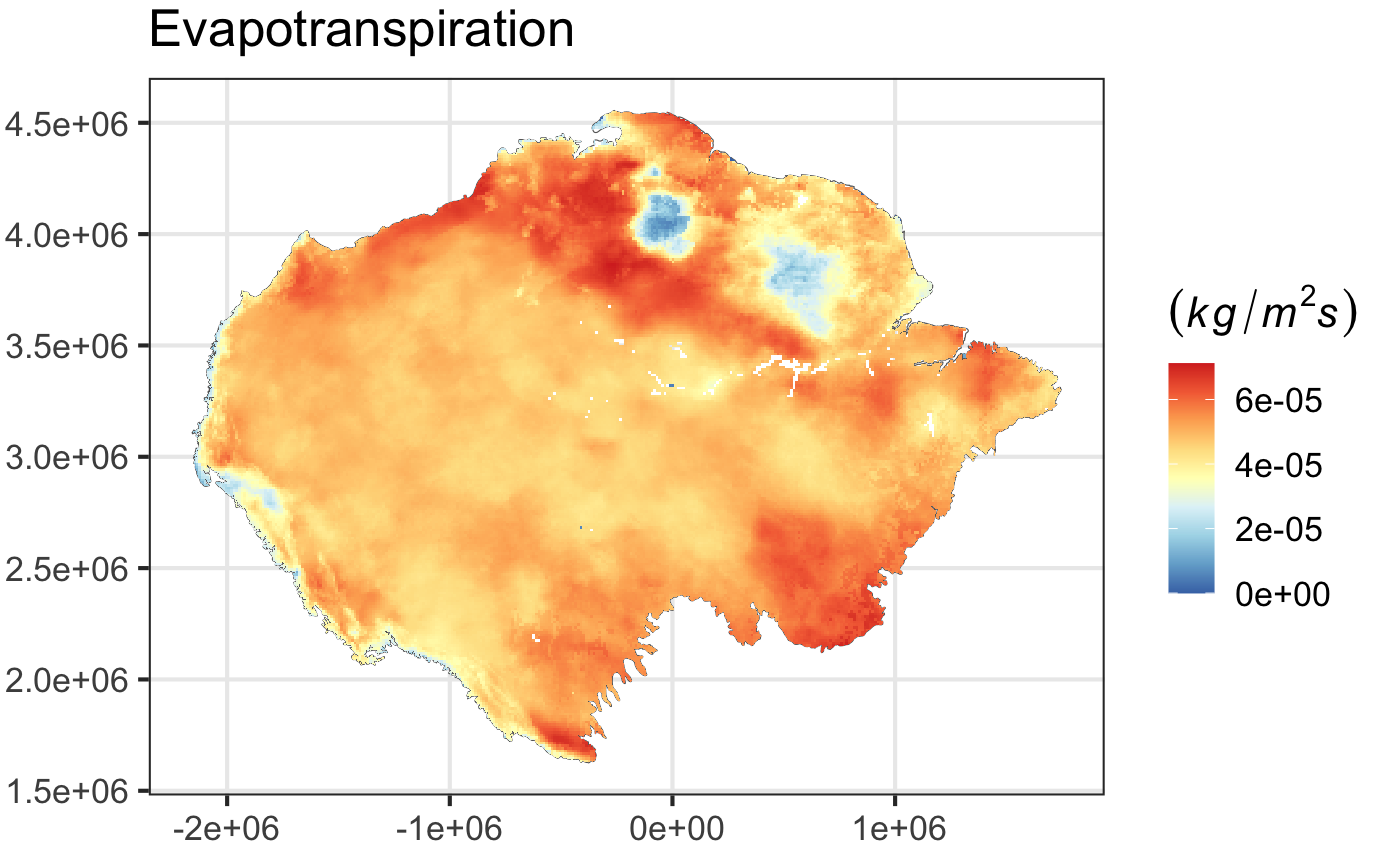
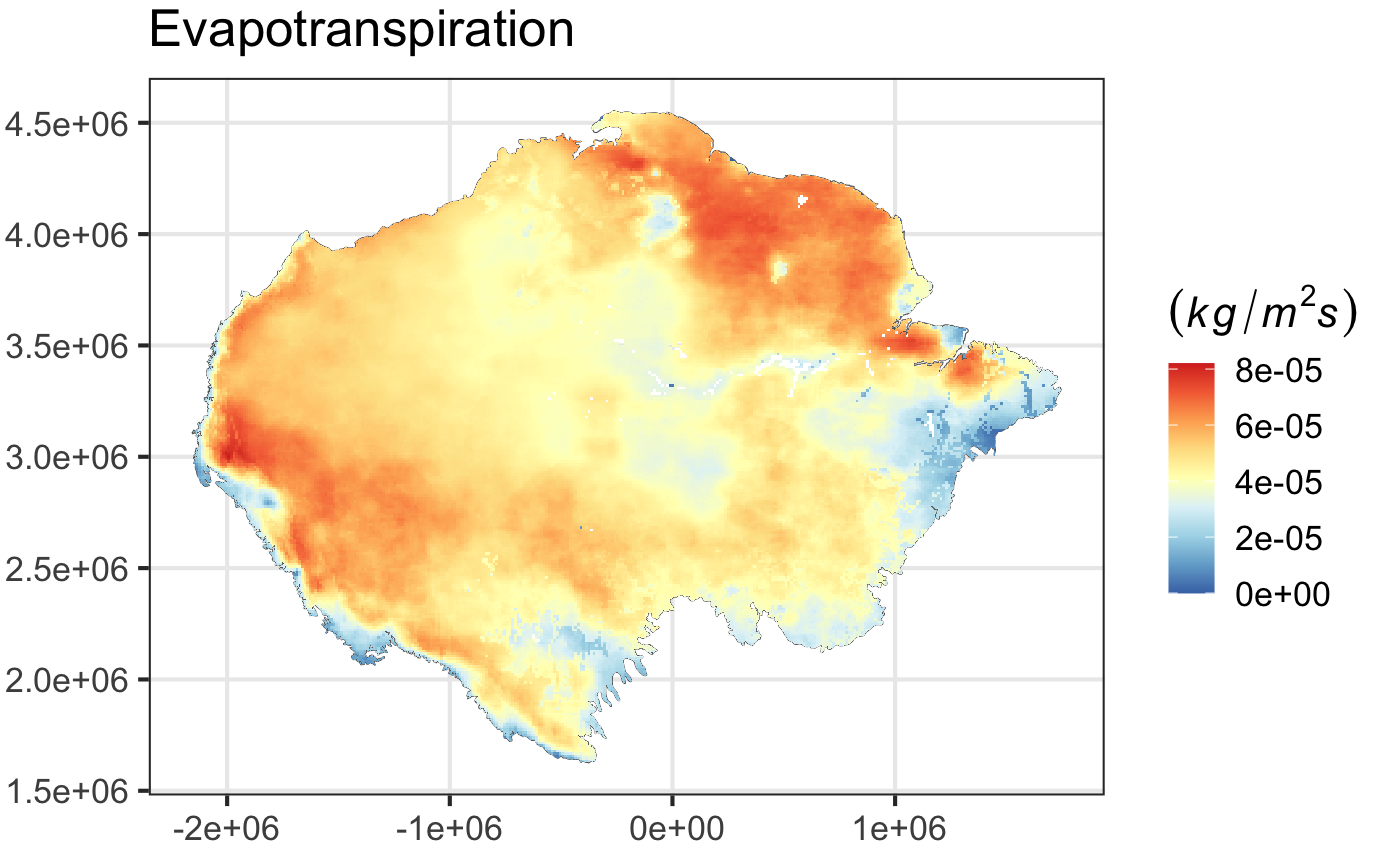
update

Changed region(s): [[0.1241, 0.1215, 0.7756, 0.9112], [0.8687, 0.3949, 0.9618, 0.5771], [0.8687, 0.6075, 0.9618, 0.6379]]

diff --git a/1_data_analysis_&_missing_data/README.md b/1_data_analysis_&_missing_data/README.md
@@ -574,7 +574,7 @@ p.prec.na <- myPlot(
   max_cell=1e7,
   x_angle=90,
   b_size=12,
-  na.color="red",
+  na.color="black",
   xy.zoom = prec.xy.zoom
 ) + 
   scale_fill_scico(
@@ -1030,14 +1030,14 @@ landsurftemp.freq.na
 
 ```r
 # Select the 4 months they have the most missing data
-lst.4na <- landsurftemp.na.order[1:4,]
+lst.4na <- landsurftemp.freq.na[1:4,]
 lst.4na.month <- lst.4na$layer %>% paste0(., "_01") %>% gsub("_", "-", .)
 lst.4na.rts <- subset(landSurfaceTemp.rts, lst.4na.month)
 lst.4na.rast <- lst.4na.rts@raster %>% mask(mask = amaz.basin.shp) 
 # Plot
 p.lst.4na <- ggplot() +
+  geom_spatvector(data = amaz.basin.shp$geometry, fill = "black", color = "gray40") +
   stat_spatraster(data = lst.4na.rast) +
-  geom_spatvector(data = amaz.basin.shp$geometry, fill = NA, color = "gray40") +
   scale_x_continuous(labels = function(x) format(x, scientific = T, digits = 1)) +
   scale_y_continuous(labels = function(x) format(x, scientific = T, digits = 2)) + 
   ggtitle(label="Land Surface Temperature", subtitle=NULL) +
@@ -1054,7 +1054,7 @@ p.lst.4na
 </details>
 
 <p align="center">
-  <img src="img/6.4.lst.png"  width="70%" />
+  <img src="img/6.4-1.lst.png"  width="70%" />
 </p>
 
 ## 1.7. Specific Humidity
@@ -1218,7 +1218,7 @@ p.hum.na <- myPlot(
   max_cell=1e7,
   x_angle=90,
   b_size=12,
-  na.color="red",
+  na.color="black",
   xy.zoom = hum.xy.zoom
 ) +
   scale_fill_cross_blended_c(
@@ -1380,6 +1380,37 @@ evapotranspiration.freq.na
 
 <p align="center">
   <img src="img/8.3.evapot.png"  width="70%" />
+</p>
+
+#### Plot Missing Data
+
+<details>
+    <summary><em>Show/Hide code</em></summary>
+
+```r
+# Applying the mask to plot only the amazon area.
+evapot <- evapotranspiration.rts[['2020-10-01']] %>% mask(mask = amaz.basin.shp)
+# define the zoom area
+evapot.xy.zoom <- list(xmin=0.9e+06, xmax=1.4e+06, ymin=3e+06, ymax=3.6e+06, zoom=0.4)
+# Plot
+p.evapot.na <- myPlot(
+  evapot, title = "Evapotranspiration", 
+  max_cell=1e7,
+  x_angle=90,
+  b_size=12,
+  na.color="black",
+  xy.zoom = evapot.xy.zoom
+) +
+  scale_fill_whitebox_c(
+    name = TeX(r"($\textit{(kg/m^2s)}$)"),
+    palette = "bl_yl_rd", 
+    na.value = "transparent")
+p.evapot.na
+```
+</details>
+
+<p align="center">
+  <img src="img/8.4.evapot.png"  width="70%" />
 </p>
 
 ## 1.9. Wind Speed
